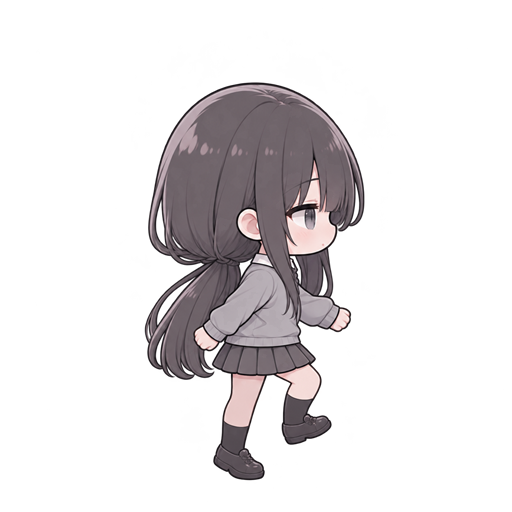
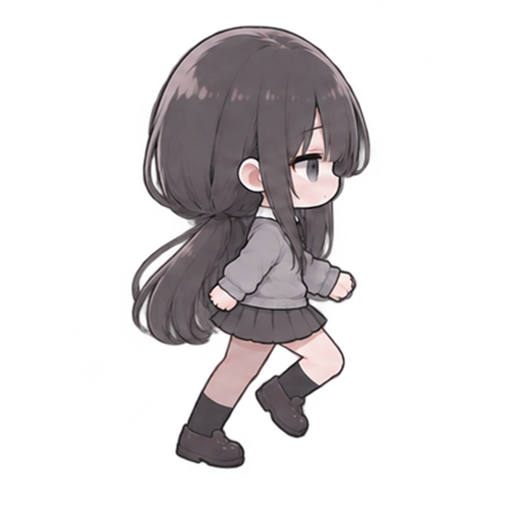
fix: unify walk cycle in one sprite sheet

Changed region(s): [[0.25, 0.0312, 0.75, 0.9375]]

diff --git a/src/App.tsx b/src/App.tsx
@@ -17,17 +17,8 @@ const catImages: Record<CatPose, string> = {
   sleep: '/assets/cat/poses/sleep.png',
   stretch: '/assets/cat/poses/stretch.png',
 };
-const eliseWalkImages = [
-  // Near leg: contact/down/pass/up; far leg: contact/down/pass/up.
-  '/assets/elise/poses/walk_side_01.png',
-  '/assets/elise/poses/walk_side_02.png',
-  '/assets/elise/poses/walk_side_03.png',
-  '/assets/elise/poses/walk_side_04.png',
-  '/assets/elise/poses/walk_side_05.png',
-  '/assets/elise/poses/walk_side_06.png',
-  '/assets/elise/poses/walk_side_07.png',
-  '/assets/elise/poses/walk_side_08.png',
-];
+const ELISE_WALK_FRAME_COUNT = 8;
+const ELISE_WALK_SHEET = '/assets/elise/poses/walk_side_sheet.png';
 const catWalkImages = [
   '/assets/cat/poses/walk_01.png',
   '/assets/cat/poses/walk_01.png',
@@ -62,10 +53,18 @@ export function App() {
   }, []);
 
   useEffect(() => {
+    [ELISE_WALK_SHEET, '/assets/cat/poses/walk_01.png', '/assets/cat/poses/walk_02.png']
+      .forEach(source => {
+        const image = new Image();
+        image.src = source;
+      });
+  }, []);
+
+  useEffect(() => {
     if (!walking) return;
 
     const timer = window.setInterval(() => {
-      setWalkFrame(current => (current + 1) % eliseWalkImages.length);
+      setWalkFrame(current => (current + 1) % ELISE_WALK_FRAME_COUNT);
       setWalkOffset(current => {
         const next = current + walkDirection * 4;
         if (next >= 92) {
@@ -169,11 +168,17 @@ export function App() {
             title="左鍵拖動 Elise · 右鍵開啟選單"
             aria-label="Elise：左鍵拖動，右鍵開啟選單"
           >
-            <img
-              src={walking ? eliseWalkImages[walkFrame] : eliseImages[pose]}
-              alt="Elise Q 版角色"
-              draggable={false}
-            />
+            {walking ? (
+              <span
+                className="walk-sprite"
+                aria-hidden="true"
+                style={{
+                  backgroundPosition: `${(walkFrame % 4) * (100 / 3)}% ${Math.floor(walkFrame / 4) * 100}%`,
+                }}
+              />
+            ) : (
+              <img src={eliseImages[pose]} alt="Elise Q 版角色" draggable={false} />
+            )}
             {!walking && pose === 'sleep' && <span className="zzz">Zzz</span>}
           </button>
         </div>

diff --git a/src/style.css b/src/style.css
@@ -20,6 +20,7 @@ button:focus-visible, input:focus-visible { outline: 2px solid #8195d4; outline-
 .character { left: 0; bottom: 0; width: 100%; height: 100%; cursor: grab; z-index: 1; }
 .character:active { cursor: grabbing; }
 .character > img:first-child, .cat > img { width: 100%; height: 100%; object-fit: contain; pointer-events: none; user-select: none; -webkit-user-drag: none; filter: drop-shadow(0 5px 5px #58637e26); }
+.walk-sprite { position: absolute; top: 35px; left: 0; width: 100%; height: 290px; background: url('/assets/elise/poses/walk_side_sheet.png') no-repeat; background-size: 400% 200%; pointer-events: none; user-select: none; filter: drop-shadow(0 5px 5px #58637e26); }
 .zzz { position: absolute; right: 28px; top: 35px; color: #8298d0; font-size: 24px; line-height: 1; pointer-events: none; }
 
 .cat { left: 158px; bottom: 1px; width: 140px; height: 163px; transform-origin: 50% 100%; z-index: 2; }

diff --git a/README.md b/README.md
@@ -8,7 +8,7 @@ Elise-pet 是基于 Tauri 2、React 19 和 TypeScript 的透明桌面宠物。
 - 左键拖动 Elise，右键打开菜单
 - Elise 与独立小猫始终一起显示，小猫固定在人物脚边
 - 原版站立、坐下、睡觉与侧面走路完整 PNG
-- Elise 使用八帧完整 PNG（双脚各四个步态阶段），小猫使用双帧完整 PNG，同步在窗口内往返散步
+- Elise 使用同源八帧完整 PNG（双脚各四个步态阶段），运行时从单一 sprite sheet 播放以避免逐图加载闪烁；小猫使用双帧 PNG 同步散步
 - 本地聊天界面（AI API 尚未接入）
 
 运行时只切换 `public/assets/elise/poses/` 与 `public/assets/cat/poses/` 中的完整 PNG，不拼接角色部件。所有动作帧使用 512×512 透明画布。
